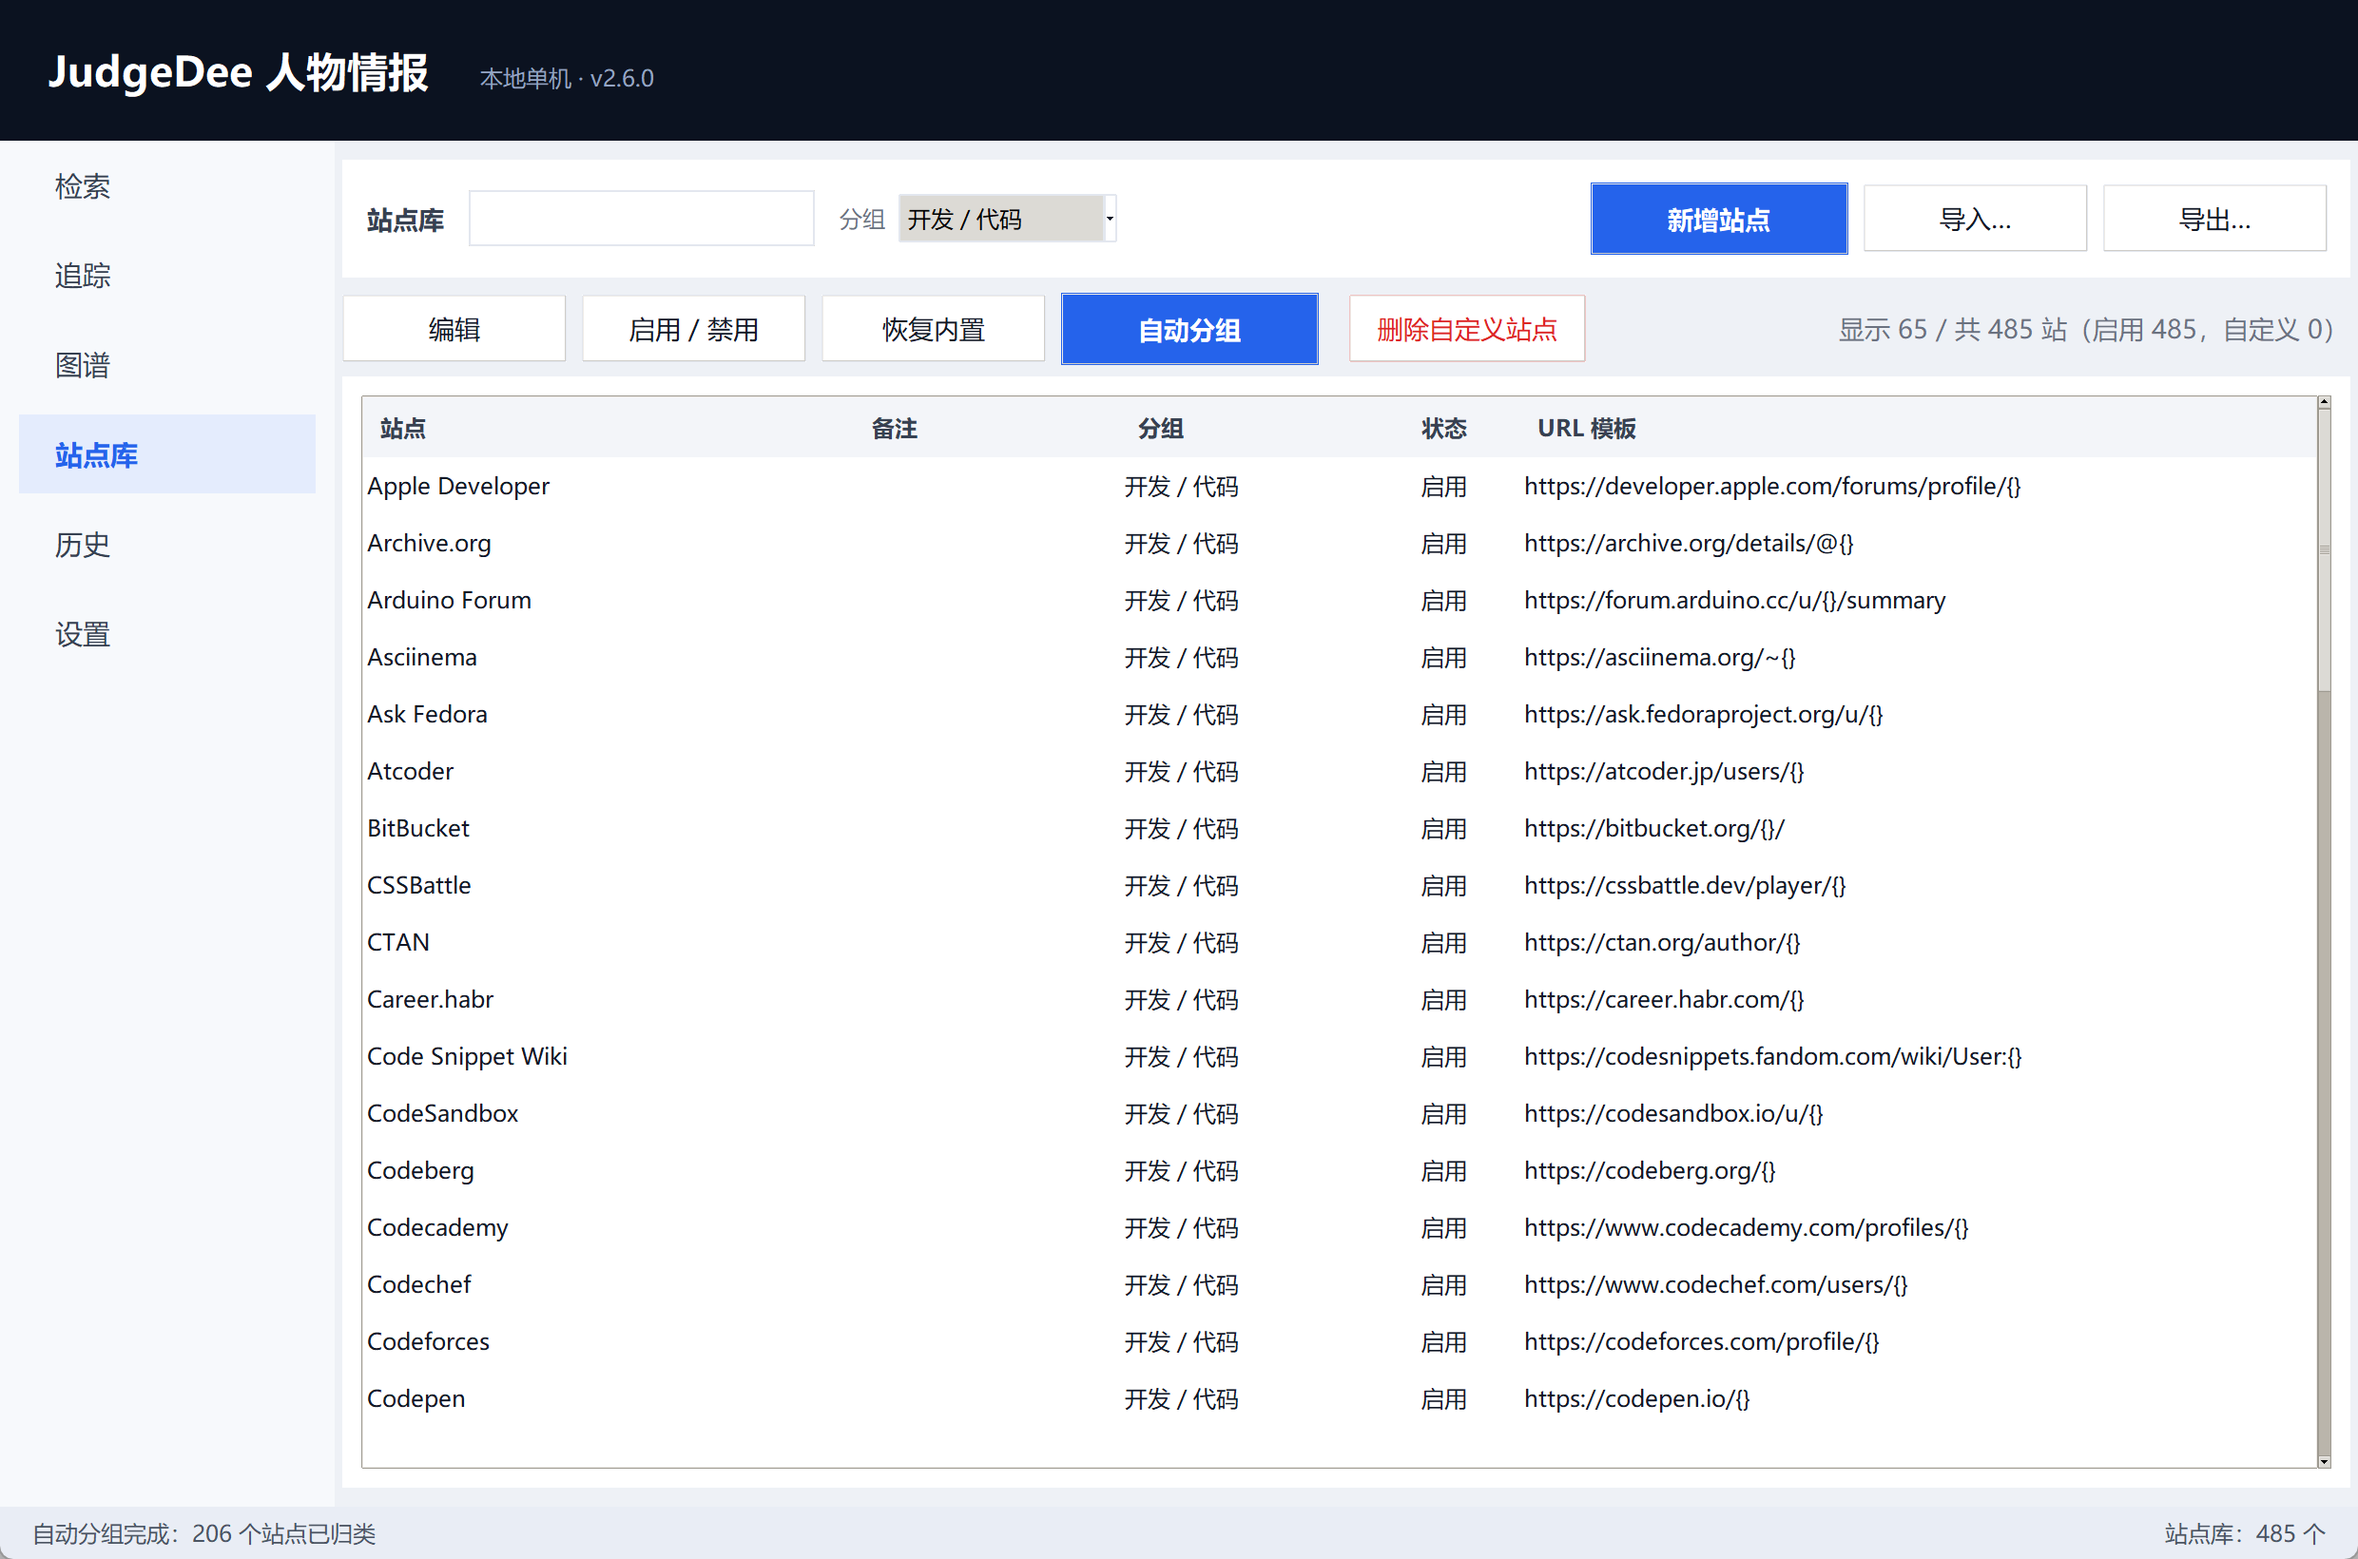
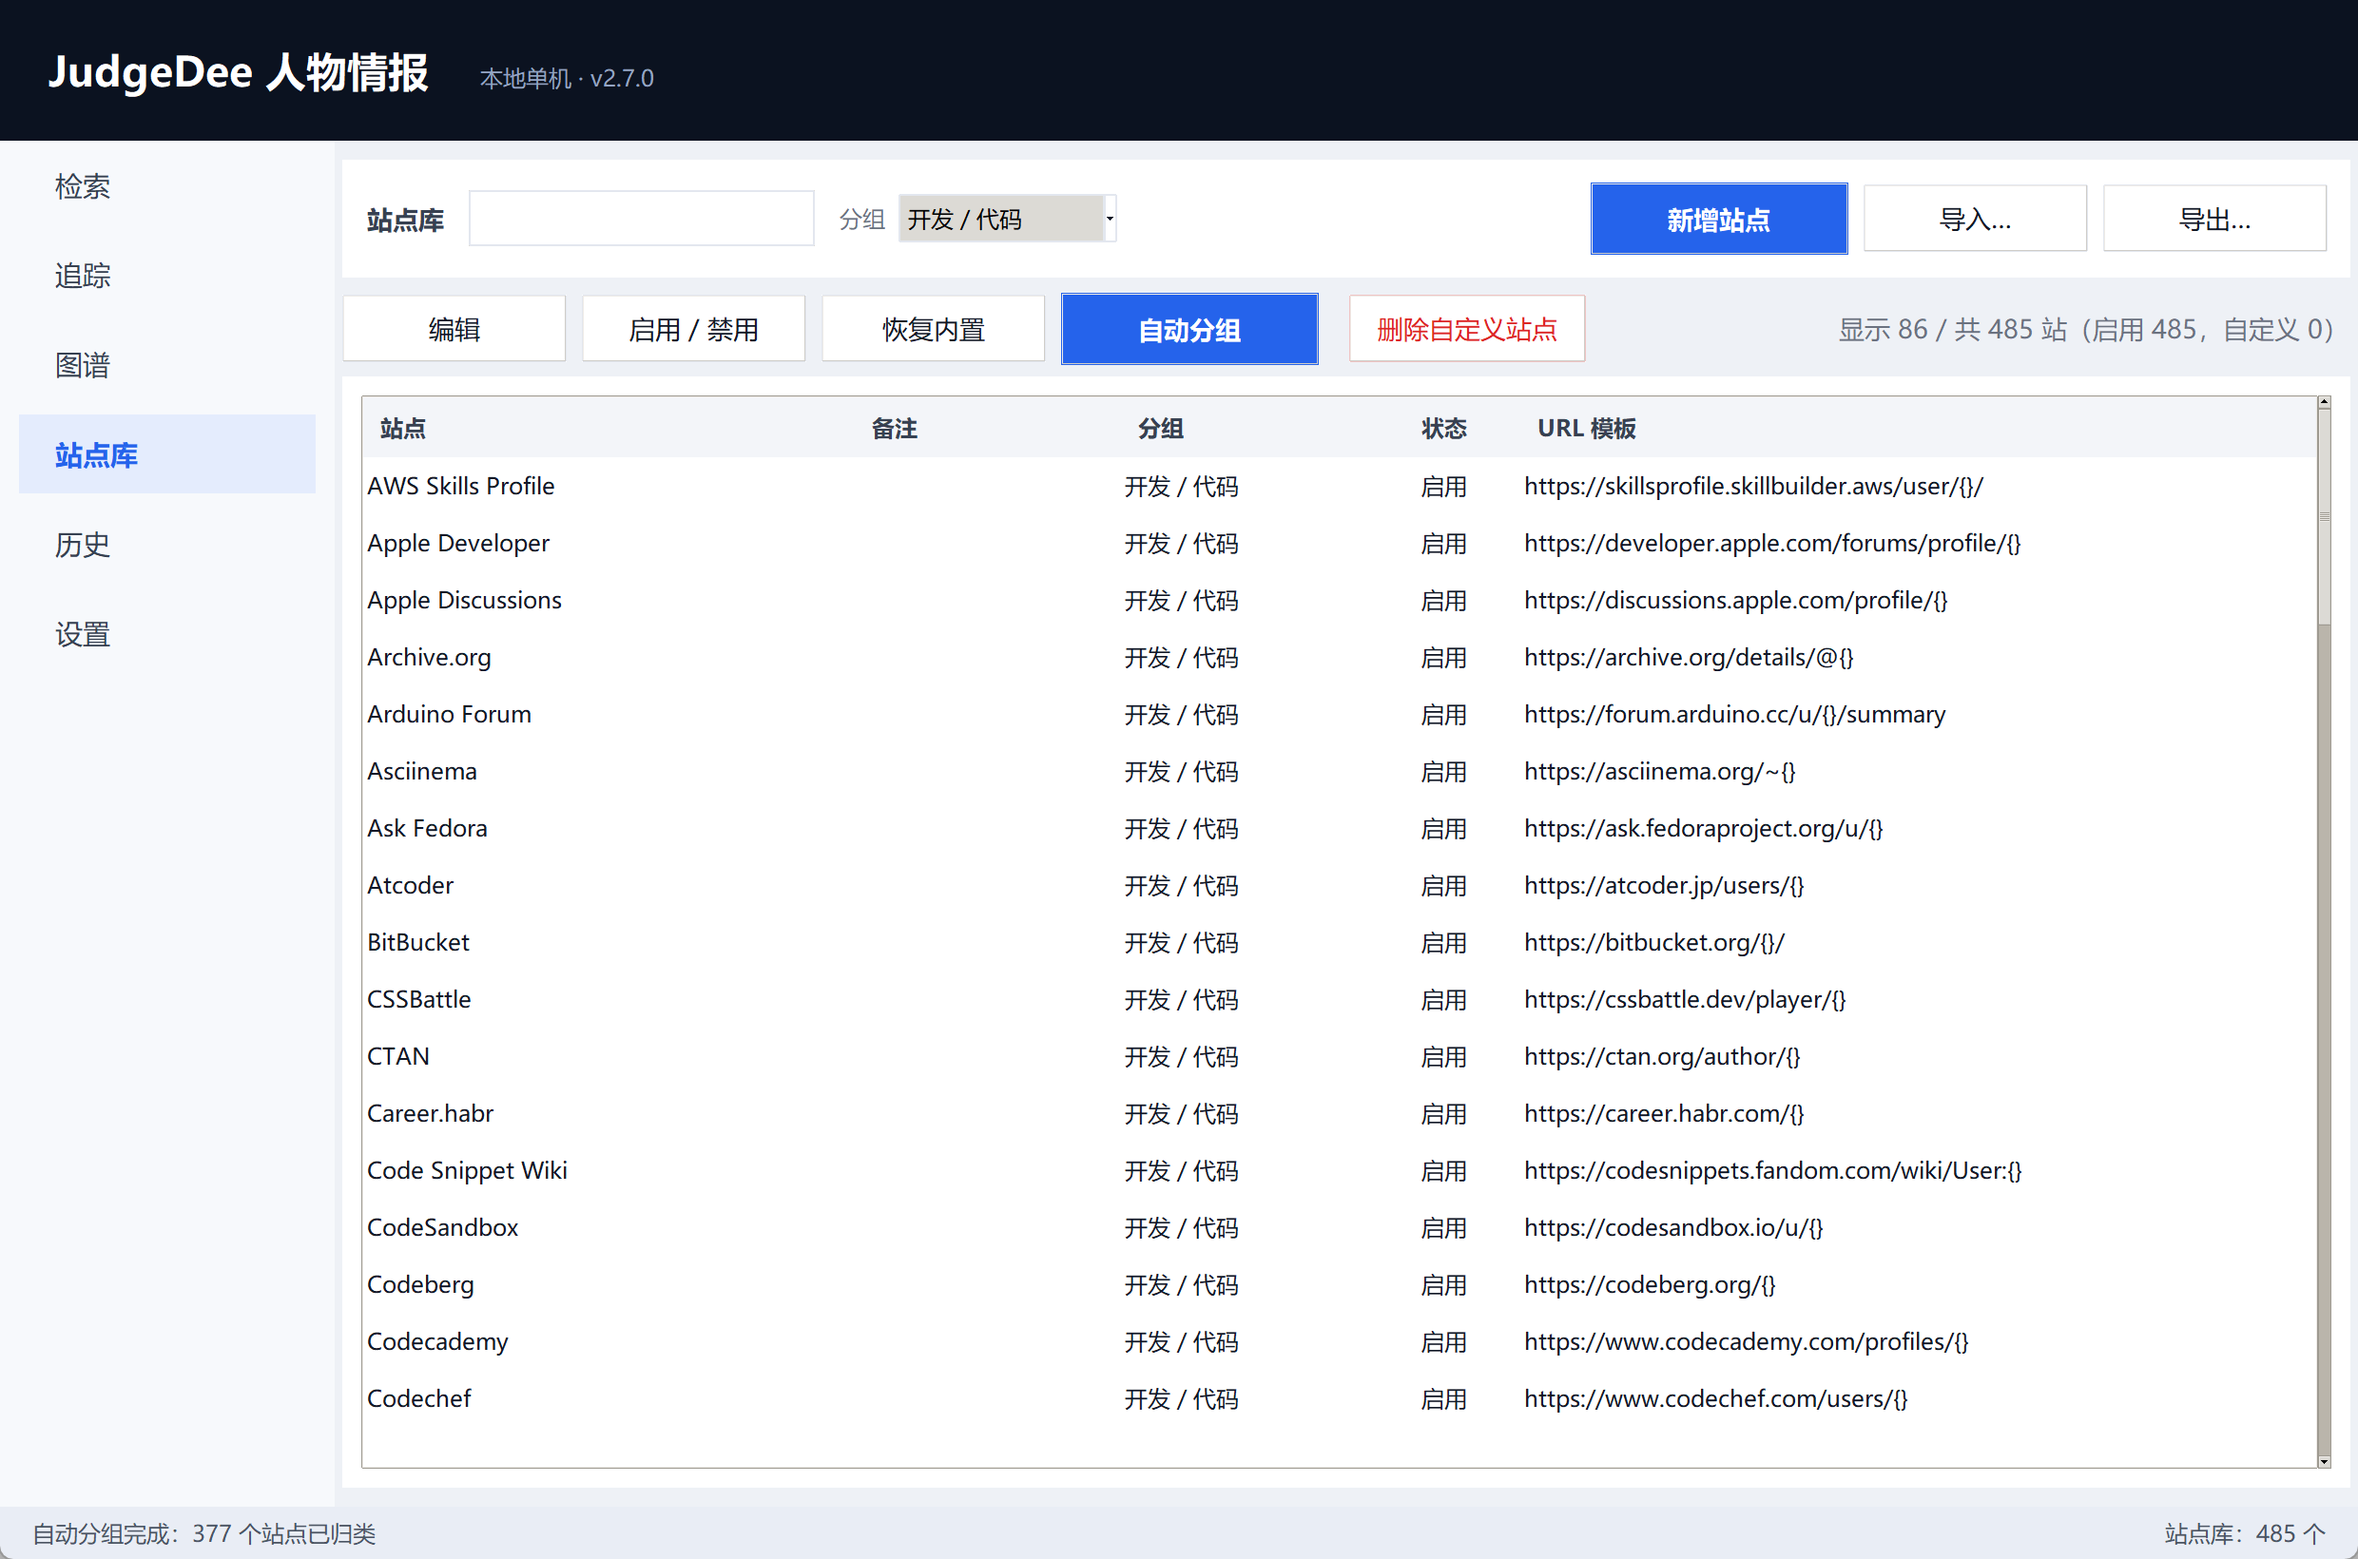
v2.7.1: 品牌表补完（377/378 自动归类）+ 新增成人内容分组

Changed region(s): [[0.6831, 0.311, 0.8694, 0.9018], [0.1552, 0.311, 0.2484, 0.8707], [0.9625, 0.4043, 0.9935, 0.4354]]

diff --git a/judgedee/groups.py b/judgedee/groups.py
@@ -140,7 +140,184 @@ BRANDS: dict[str, str] = {
     "Football": "生活 / 服务", "Airbit": "生活 / 服务",
 }
 
-CN_TLDS = (".cn", ".com.cn", ".net.cn", ".org.cn")
+# 第二批：按站点名逐个人工归的（仍在扩充）
+BRANDS_MORE: dict[str, str] = {
+    "1337x": "影音 / 创作",
+    "2Dimensions": "影音 / 创作",
+    "APClips": "成人内容",
+    "AWS Skills Profile": "开发 / 代码",
+    "AdmireMe.Vip": "成人内容",
+    "Airliners": "生活 / 服务",
+    "All Things Worn": "成人内容",
+    "AllMyLinks": "社交 / 社区",
+    "Apple Discussions": "开发 / 代码",
+    "Audiojungle": "购物 / 交易",
+    "Avizo": "生活 / 服务",
+    "Bezuzyteczna": "社交 / 社区",
+    "BongaCams": "成人内容",
+    "BuzzFeed": "影音 / 创作",
+    "CGTrader": "购物 / 交易",
+    "CNET": "影音 / 创作",
+    "Championat": "生活 / 服务",
+    "Chatujme.cz": "社交 / 社区",
+    "ChaturBate": "成人内容",
+    "Codolio": "开发 / 代码",
+    "Coinvote": "金融 / 加密",
+    "Contently": "影音 / 创作",
+    "Cults3D": "购物 / 交易",
+    "DailyMotion": "影音 / 创作",
+    "Dealabs": "购物 / 交易",
+    "Empretienda AR": "购物 / 交易",
+    "Erome": "成人内容",
+    "F3.cool": "社交 / 社区",
+    "Finanzfrage": "金融 / 加密",
+    "Freesound": "影音 / 创作",
+    "Genius (Users)": "影音 / 创作",
+    "Heavy-R": "成人内容",
+    "HotUKdeals": "购物 / 交易",
+    "HubPages": "社交 / 社区",
+    "Hubski": "社交 / 社区",
+    "IFTTT": "生活 / 服务",
+    "IRC-Galleria": "社交 / 社区",
+    "Image Fap": "成人内容",
+    "ImgUp.cz": "影音 / 创作",
+    "Instapaper": "学习 / 学术",
+    "Jellyfin Weblate": "开发 / 代码",
+    "Jimdo": "开发 / 代码",
+    "Kick": "影音 / 创作",
+    "Kik": "社交 / 社区",
+    "LushStories": "成人内容",
+    "Mamot": "社交 / 社区",
+    "Motherless": "成人内容",
+    "Mydealz": "购物 / 交易",
+    "NationStates Nation": "游戏",
+    "NationStates Region": "游戏",
+    "NitroType": "游戏",
+    "OurDJTalk": "影音 / 创作",
+    "Outgress": "游戏",
+    "Patched": "开发 / 代码",
+    "Patreon": "购物 / 交易",
+    "Pepperdeals": "购物 / 交易",
+    "PepperealsUS": "购物 / 交易",
+    "Polarsteps": "生活 / 服务",
+    "Polygon": "影音 / 创作",
+    "Pornhub": "成人内容",
+    "Preisjaeger": "购物 / 交易",
+    "ProductHunt": "社交 / 社区",
+    "PromoDJ": "影音 / 创作",
+    "Promodescuentos": "购物 / 交易",
+    "Pronouns.page": "社交 / 社区",
+    "Pychess": "游戏",
+    "Rajce.net": "影音 / 创作",
+    "Rarible": "金融 / 加密",
+    "Realmeye": "游戏",
+    "RedTube": "成人内容",
+    "Redbubble": "购物 / 交易",
+    "Reisefrage": "生活 / 服务",
+    "ReverbNation": "影音 / 创作",
+    "RocketTube": "成人内容",
+    "RoyalCams": "成人内容",
+    "Rumble": "影音 / 创作",
+    "SOOP": "影音 / 创作",
+    "SWAPD": "购物 / 交易",
+    "Sbazar.cz": "购物 / 交易",
+    "Scribd": "学习 / 学术",
+    "Shelf": "学习 / 学术",
+    "ShitpostBot5000": "社交 / 社区",
+    "Slack": "开发 / 代码",
+    "Slant": "学习 / 学术",
+    "SlideShare": "学习 / 学术",
+    "Slides": "学习 / 学术",
+    "SmugMug": "影音 / 创作",
+    "Smule": "影音 / 创作",
+    "SoylentNews": "社交 / 社区",
+    "SpeakerDeck": "学习 / 学术",
+    "Spells8": "生活 / 服务",
+    "Splice": "影音 / 创作",
+    "Sporcle": "学习 / 学术",
+    "Sportlerfrage": "生活 / 服务",
+    "SportsRU": "生活 / 服务",
+    "Star Citizen": "游戏",
+    "Status Cafe": "社交 / 社区",
+    "TRAKTRAIN": "购物 / 交易",
+    "Tellonym.me": "社交 / 社区",
+    "Tenor": "影音 / 创作",
+    "ThemeForest": "购物 / 交易",
+    "Tiendanube": "购物 / 交易",
+    "TrashboxRU": "开发 / 代码",
+    "Trawelling": "生活 / 服务",
+    "Trello": "生活 / 服务",
+    "Trovo": "影音 / 创作",
+    "Tuna": "影音 / 创作",
+    "Tweakers": "社交 / 社区",
+    "Typeracer": "学习 / 学术",
+    "Ultimate-Guitar": "影音 / 创作",
+    "VLR": "游戏",
+    "VSCO": "影音 / 创作",
+    "Venmo": "金融 / 加密",
+    "Vjudge": "开发 / 代码",
+    "WebNode": "开发 / 代码",
+    "Weblate": "开发 / 代码",
+    "Weebly": "开发 / 代码",
+    "Wikidot": "学习 / 学术",
+    "Wikipedia": "学习 / 学术",
+    "Windy": "生活 / 服务",
+    "WordPress": "开发 / 代码",
+    "WordPressOrg": "开发 / 代码",
+    "Wordnik": "学习 / 学术",
+    "Wowhead": "游戏",
+    "Write.as": "社交 / 社区",
+    "write.as": "社交 / 社区",
+    "Wykop": "社交 / 社区",
+    "YouNow": "影音 / 创作",
+    "YouPic": "影音 / 创作",
+    "YouPorn": "成人内容",
+    "akniga": "影音 / 创作",
+    "authorSTREAM": "学习 / 学术",
+    "couchsurfing": "生活 / 服务",
+    "d3RU": "开发 / 代码",
+    "dailykos": "社交 / 社区",
+    "datingRU": "社交 / 社区",
+    "dcinside": "社交 / 社区",
+    "drive2": "生活 / 服务",
+    "eintracht": "生活 / 服务",
+    "exophase": "游戏",
+    "fixya": "生活 / 服务",
+    "fl": "购物 / 交易",
+    "furaffinity": "影音 / 创作",
+    "geocaching": "生活 / 服务",
+    "habr": "开发 / 代码",
+    "hunting": "生活 / 服务",
+    "imood": "社交 / 社区",
+    "interpals": "社交 / 社区",
+    "irecommend": "购物 / 交易",
+    "jbzd.com.pl": "社交 / 社区",
+    "kaskus": "社交 / 社区",
+    "kofi": "购物 / 交易",
+    "kwork": "购物 / 交易",
+    "livelib": "学习 / 学术",
+    "mercadolivre": "购物 / 交易",
+    "minds": "社交 / 社区",
+    "moikrug": "生活 / 服务",
+    "nairaland.com": "社交 / 社区",
+    "nnRU": "生活 / 服务",
+    "note": "社交 / 社区",
+    "opennet": "开发 / 代码",
+    "phpRU": "开发 / 代码",
+    "pikabu": "社交 / 社区",
+    "pr0gramm": "社交 / 社区",
+    "prog.hu": "开发 / 代码",
+    "satsisRU": "影音 / 创作",
+    "sessionize": "开发 / 代码",
+    "spletnik": "社交 / 社区",
+    "tistory": "社交 / 社区",
+    "toster": "开发 / 代码",
+    "xHamster": "成人内容",
+    "znanylekarz.pl": "生活 / 服务",
+}
+BRANDS.update(BRANDS_MORE)
+
+CN_TLDS = ('.cn', '.com.cn', '.net.cn', '.org.cn')
 
 # 认不出具体站点时，再用域名/名字里的通用词兜一层（顺序同上）
 FALLBACK: list[tuple[str, tuple[str, ...]]] = [

diff --git a/judgedee/__init__.py b/judgedee/__init__.py
@@ -4,7 +4,7 @@
 查 IP 与手机号归属地。站点表、判定规则、图标全部随程序分发，运行时不依赖任何在线服务。
 """
 
-__version__ = "2.7.0"
+__version__ = "2.7.1"
 __app_name__ = "JudgeDee"
 __app_name_zh__ = "JudgeDee 人物情报"
 

diff --git a/README.md b/README.md
@@ -135,8 +135,9 @@ Python 3.9+（推荐 3.11），必装只有 `requests`。
 ### 站点库
 
 485 个站点，可以增删改、启用/禁用、导入导出。顶部「自动分组」按钮会按关键词表把
-「未分组」的站点归到十类里（安全 / CTF、国内站点、游戏、金融 / 加密、购物 / 交易、
-学习 / 学术、影音 / 创作、开发 / 代码、社交 / 社区、生活 / 服务），认不出的留给人工。
+「未分组」的站点归到十一类里（安全 / CTF、国内站点、游戏、金融 / 加密、购物 / 交易、
+学习 / 学术、影音 / 创作、开发 / 代码、社交 / 社区、生活 / 服务、成人内容）；
+内置表已覆盖 378 个未分组站点里的 377 个，剩下一个认不出的留给人工。
 国内站点已支持豆瓣、B 站、Gitee、V2EX、酷安；抖音 / 小红书 / 微博对任何名字都返回
 登录墙，无法判定存在性，所以没有收录。
 

diff --git a/CHANGELOG.md b/CHANGELOG.md
@@ -1,5 +1,14 @@
 # 更新日志
 
+## v2.7.1 (2026-11-07)
+
+自动分组补完：把剩下的站点逐个人工归了 171 条（`BRANDS_MORE`），
+
+- 本机 378 个未分组站点，一键后只剩 **1 个**（`uid`，实在看不出是哪家）；
+- 新增一组「成人内容」，把 NSFW 站点从「社交 / 社区」里摘出来，勾选时更好避开；
+- 现在共 11 个分组：安全 / CTF、国内站点、游戏、金融 / 加密、购物 / 交易、学习 / 学术、
+  影音 / 创作、开发 / 代码、社交 / 社区、生活 / 服务、成人内容。
+
 ## v2.7.0 (2026-11-07)
 
 **站点分组一键搞定**：站点库多了「自动分组」按钮，按关键词表 + 品牌表把「未分组」的站点归到
